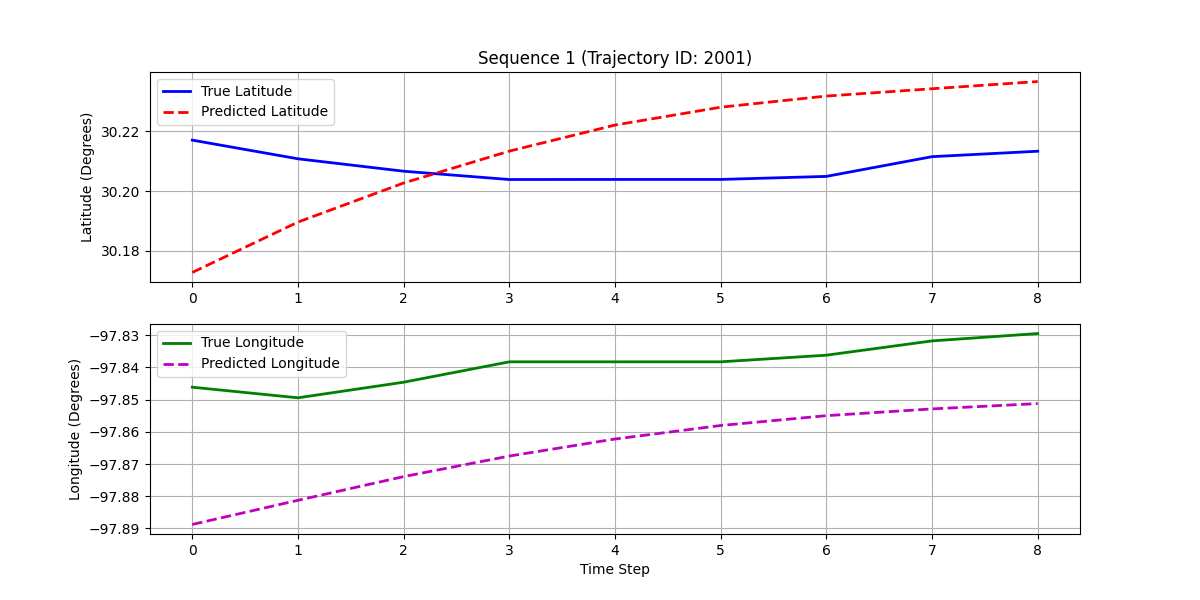
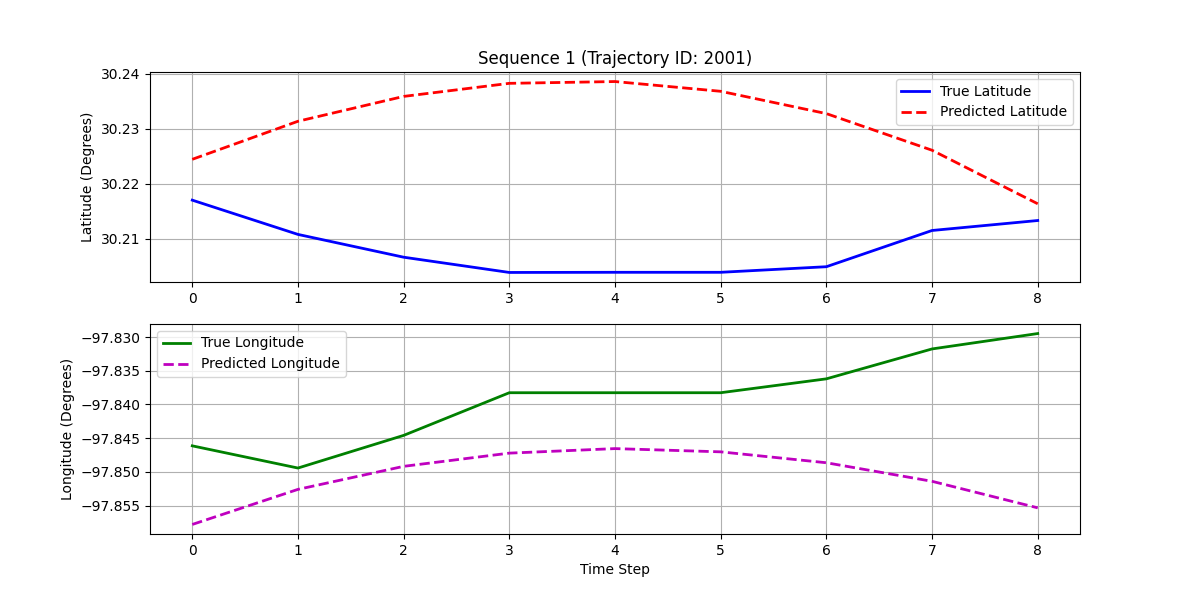
updated mse

diff --git a/models.py b/models.py
@@ -163,13 +163,15 @@ def encoder_decoder_bidirectional_model(trainX,trainY, encoder_lstm_cells=64, de
     
     # Encodeur
     model = Sequential()
-    model.add(Bidirectional(LSTM(encoder_lstm_cells, return_sequences=False, input_shape=input_shape)))  # Couche LSTM bidirectionnelle
-    model.add(RepeatVector(output_shape[0]))  # Répéter le vecteur pour le décodeur
-
+    # Couche LSTM bidirectionnelle
+    model.add(Bidirectional(LSTM(encoder_lstm_cells, return_sequences=False, input_shape=input_shape)))
+    # Répéter le vecteur pour le décodeur
+    model.add(RepeatVector(output_shape[0]))
     # Décodeur
-    model.add(Bidirectional(LSTM(decoder_lstm_cells, return_sequences=True)))  # Couche LSTM bidirectionnelle
-    model.add(TimeDistributed(Dense(output_shape[1])))  # Couche dense pour chaque pas de temps
-
+    # Couche LSTM bidirectionnelle
+    model.add(Bidirectional(LSTM(decoder_lstm_cells, return_sequences=True))) 
+    # Couche dense pour chaque pas de temps
+    model.add(TimeDistributed(Dense(output_shape[1])))
     # Compilation du modèle
     model.compile(optimizer=Adam(learning_rate=0.001), loss='mse')
 
@@ -193,7 +195,7 @@ def prediction(model, testX=None, testY=None):
         testPredict = model.predict([testX_pad, testY_pad])
     return testPredict
 
-def calculate_rmse(model, trainX, trainY, testY, testPredict):
+def calculate_rmse(model, history, trainX, trainY, testY, testPredict):
     # For Sequential models or single-input models
     if isinstance(model, Sequential) or not isinstance(model.input, list):
         trainPredict = model.predict(trainX)
@@ -231,8 +233,11 @@ def calculate_rmse(model, trainX, trainY, testY, testPredict):
     testPredict_flat = testPredict_flat[:min_len]
 
     # Calculate RMSE
-    trainScore = np.sqrt(mean_squared_error(trainY_flat, trainPredict_flat))
-    print('Train Score: %.2f RMSE' % (trainScore))
+    #trainScore = np.sqrt(mean_squared_error(trainY_flat, trainPredict_flat))
+    #print('Train Score: %.2f RMSE' % (trainScore))
+
+    trainScore = history.history['loss'][-1]
+    print('Test Score: %.5f MSE' % (trainScore))
 
     testScore = np.sqrt(mean_squared_error(testY_flat, testPredict_flat))
     print('Test Score: %.2f RMSE' % (testScore))
@@ -318,6 +323,7 @@ def plot_sequences(testY, testPredict, test_ids=None, seq_length=None, num_seque
         plt.plot(time_steps, testY_inverse[i, :actual_length, 0], 'b-', label='True Latitude', linewidth=2)
         plt.plot(time_steps, testPredict_inverse[i, :actual_length, 0], 'r--', label='Predicted Latitude', linewidth=2)
         plt.ylabel('Latitude (Degrees)')
+        #plt.ylim(30.15, 30.35)  # Adjusted y-limits for latitude
         plt.title(f'Sequence {i+1}' + (f' (Trajectory ID: {test_ids[i]})' if test_ids else ''))
         plt.legend()
         plt.grid(True)
@@ -328,6 +334,7 @@ def plot_sequences(testY, testPredict, test_ids=None, seq_length=None, num_seque
         plt.plot(time_steps, testPredict_inverse[i, :actual_length, 1], 'm--', label='Predicted Longitude', linewidth=2)
         plt.xlabel('Time Step')
         plt.ylabel('Longitude (Degrees)')
+        #plt.ylim(-97.70, -97.90)  # Adjusted y-limits for longitude
         plt.legend()
         plt.grid(True)
         plt.savefig(f"images/sequence_{i}.png")
@@ -339,10 +346,10 @@ def plot_sequences(testY, testPredict, test_ids=None, seq_length=None, num_seque
 
 trainX, trainY, _, _, train_ids, _= preprocessing('datasets/outputs/cleaned_gpx.csv',seq_length=10)
 _, _, testX, testY, _, test_ids = preprocessing('datasets/test/cleaned_csv_test.csv',seq_length=10, ratio_train=0)
-model, history = simple_lstm_model(trainX, trainY)
+model, history = encoder_decoder_bidirectional_model(trainX, trainY)
 plotting_courbe_apprentissage(history)
 testPredict = prediction(model, testX, testY)
-trainScore, testScore = calculate_rmse(model, trainX, trainY, testY, testPredict)
+trainScore, testScore = calculate_rmse(model, history, trainX, trainY, testY, testPredict)
 plotting(testY,testPredict, max_points=100)
 
-plot_sequences(testY, testPredict, test_ids=test_ids)
+#plot_sequences(testY, testPredict, test_ids=test_ids)
